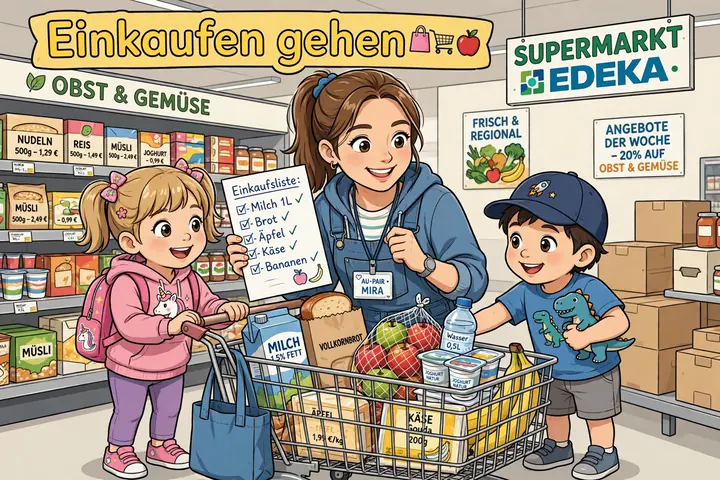
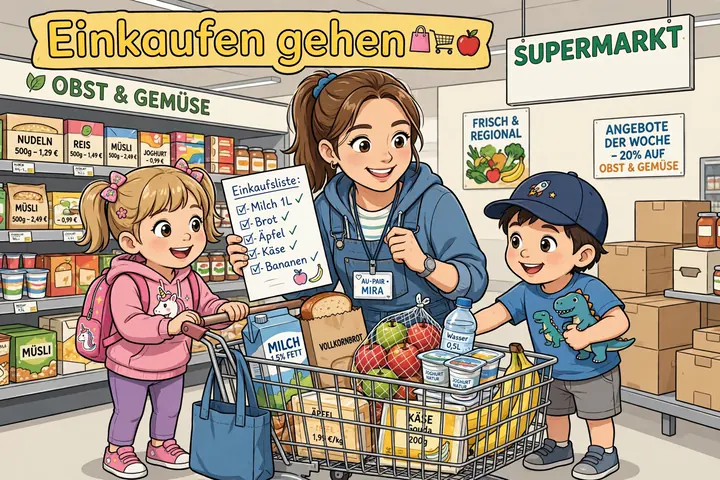
fix: Markenlogo aus dem Bild zu Lektion 7 entfernen
Das Ladenschild in der Einkaufsszene trug das Logo einer echten
Supermarktkette, gut lesbar. Auf einer öffentlich erreichbaren Lernseite
ist ein fremdes Markenzeichen weder nötig noch sauber. Übrig bleibt
"SUPERMARKT", und das genügt für die Szene.

Die Retusche steht in der Bildpipeline, nicht nur in der fertigen Datei.
Hätte nur das WebP den Eingriff getragen, wäre das Logo beim nächsten Lauf
von bilder-aufbereiten.js kommentarlos zurückgekommen.

Das Schild hängt schräg, deshalb ist die Fläche aus schmalen Streifen
zusammengesetzt, die der Neigung folgen. Ein waagerechter Kasten hätte
oben die Buchstaben angeschnitten und unten den Rahmen überdeckt. Ein
Kontrolllauf über alle sechzehn Bilder ändert genau diese eine Datei.

Changed region(s): [[0.7028, 0.0938, 0.9472, 0.2188]]

diff --git a/scripts/bilder-aufbereiten.js b/scripts/bilder-aufbereiten.js
@@ -40,6 +40,37 @@ const ZUORDNUNG = {
   9: 9, 10: 7, 11: 14, 12: 11, 13: 13, 14: 15, 15: 12,
 };
 
+/**
+ * Retuschen: Stellen, die aus den Rohbildern verschwinden müssen, bevor die
+ * Seite öffentlich ausgeliefert wird.
+ *
+ * Lektion 7 trug auf dem Ladenschild das Logo einer echten Supermarktkette.
+ * Ein fremdes Markenzeichen auf einer offenen Lernseite ist weder nötig noch
+ * sauber, also wird die Zeile mit der Schildfarbe überdeckt. Übrig bleibt
+ * "SUPERMARKT", und das genügt für die Szene.
+ *
+ * Das Schild hängt schräg. Ein waagerechter Kasten würde oben die Buchstaben
+ * anschneiden und unten in den Rahmen laufen, deshalb wird die Fläche aus
+ * schmalen Streifen zusammengesetzt, die der Neigung folgen. Alle Angaben in
+ * Kartenkoordinaten, also nach dem Verkleinern auf 720x480.
+ */
+const RETUSCHEN = {
+  7: [
+    {
+      links: 511,
+      rechts: 686,
+      obenLinks: 68,
+      obenRechts: 52,
+      untenLinks: 100,
+      untenRechts: 85,
+      farbe: '0xF7F2E6', // aus dem Schild ausgelesen
+      grund: 'Markenlogo einer echten Supermarktkette',
+    },
+  ],
+};
+
+const RETUSCHE_STREIFEN = 15; // schmaler heißt weniger Treppe an den Kanten
+
 const KARTEN_BREITE = 720;
 const KARTEN_HOEHE = 480;
 const MIRA_BREITE = 640;
@@ -49,6 +80,27 @@ function ffmpeg(args) {
   return execFileSync('ffmpeg', ['-v', 'error', '-y', ...args], {
     maxBuffer: 1024 * 1024 * 256,
   });
+}
+
+/**
+ * Baut aus einer schrägen Fläche eine Kette waagerechter Kästen.
+ *
+ * Für die Oberkante zählt die linke Streifenkante, für die Unterkante die
+ * rechte. So bleibt jeder Streifen vollständig innerhalb der Fläche, die
+ * überdeckt werden darf, statt über ihren Rand hinauszulaufen.
+ */
+function retuscheFilter(flaeche) {
+  const { links, rechts, obenLinks, obenRechts, untenLinks, untenRechts, farbe } = flaeche;
+  const zwischen = (a, b, x) => a + ((b - a) * (x - links)) / (rechts - links);
+
+  const teile = [];
+  for (let x = links; x < rechts; x += RETUSCHE_STREIFEN) {
+    const breite = Math.min(RETUSCHE_STREIFEN, rechts - x);
+    const oben = Math.floor(zwischen(obenLinks, obenRechts, x));
+    const unten = Math.floor(zwischen(untenLinks, untenRechts, x + breite));
+    teile.push(`drawbox=x=${x}:y=${oben}:w=${breite}:h=${unten - oben}:color=${farbe}:t=fill`);
+  }
+  return teile.join(',');
 }
 
 function masse(datei) {
@@ -75,14 +127,22 @@ function karten() {
       continue;
     }
     const ziel = path.join(ZIEL, `lektion-${String(lektionsNr).padStart(2, '0')}.webp`);
+    const retuschen = RETUSCHEN[lektionsNr] || [];
+    const filter = [
+      `scale=${KARTEN_BREITE}:${KARTEN_HOEHE}:flags=lanczos`,
+      ...retuschen.map(retuscheFilter),
+    ].join(',');
     ffmpeg([
       '-i', quelle,
-      '-vf', `scale=${KARTEN_BREITE}:${KARTEN_HOEHE}:flags=lanczos`,
+      '-vf', filter,
       '-c:v', 'libwebp', '-lossless', '0', '-q:v', '76', '-compression_level', '6',
       '-frames:v', '1',
       ziel,
     ]);
-    console.log(`  ${path.basename(ziel)}  ${kb(quelle)} kB -> ${kb(ziel)} kB`);
+    const nachtrag = retuschen.length
+      ? `  (retuschiert: ${retuschen.map((r) => r.grund).join(', ')})`
+      : '';
+    console.log(`  ${path.basename(ziel)}  ${kb(quelle)} kB -> ${kb(ziel)} kB${nachtrag}`);
   }
 }
 
